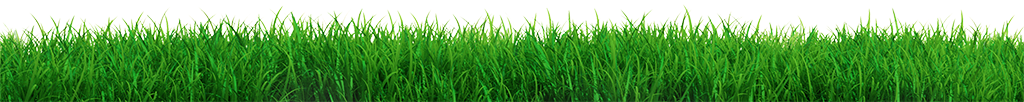
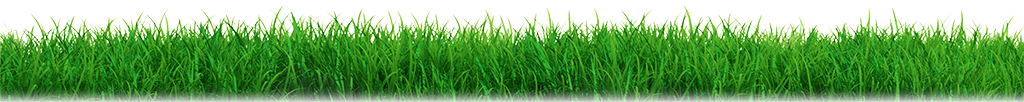
More sections added.

Changed region(s): [[0.0, 0.8824, 1.0, 1.0]]

diff --git a/lib/jquery-scrollto.js b/lib/jquery-scrollto.js
@@ -1,1 +1,7 @@
-!function(a,b,c){"undefined"!=typeof module&&module.exports?module.exports=c():"function"==typeof define&&define.amd?define(c):b[a]=c()}("jquery-scrollto",this,function(){var a,b,c;return a=b=window.jQuery||require("jquery"),b.propHooks.scrollTop=b.propHooks.scrollLeft={get:function(a,b){var c=null;return("HTML"===a.tagName||"BODY"===a.tagName)&&("scrollLeft"===b?c=window.scrollX:"scrollTop"===b&&(c=window.scrollY)),null==c&&(c=a[b]),c}},b.Tween.propHooks.scrollTop=b.Tween.propHooks.scrollLeft={get:function(a){return b.propHooks.scrollTop.get(a.elem,a.prop)},set:function(a){"HTML"===a.elem.tagName||"BODY"===a.elem.tagName?(a.options.bodyScrollLeft=a.options.bodyScrollLeft||window.scrollX,a.options.bodyScrollTop=a.options.bodyScrollTop||window.scrollY,"scrollLeft"===a.prop?a.options.bodyScrollLeft=Math.round(a.now):"scrollTop"===a.prop&&(a.options.bodyScrollTop=Math.round(a.now)),window.scrollTo(a.options.bodyScrollLeft,a.options.bodyScrollTop)):a.elem.nodeType&&a.elem.parentNode&&(a.elem[a.prop]=a.now)}},c={config:{duration:400,easing:"swing",callback:void 0,durationMode:"each",offsetTop:0,offsetLeft:0},configure:function(a){return b.extend(c.config,a||{}),this},scroll:function(a,d){var e,f,h,i,j,k,l,m,n,o,p,q,r,s,t,u,v,w;return e=a.pop(),f=e.$container,h=e.$target,k=f.prop("tagName"),i=b("<span/>").css({position:"absolute",top:"0px",left:"0px"}),j=f.css("position"),f.css({position:"relative"}),i.appendTo(f),p=i.offset().top,q=h.offset().top,r=q-p-parseInt(d.offsetTop,10),s=i.offset().left,t=h.offset().left,u=t-s-parseInt(d.offsetLeft,10),l=f.prop("scrollTop"),m=f.prop("scrollLeft"),i.remove(),f.css({position:j}),v={},w=function(){return 0===a.length?"function"==typeof d.callback&&d.callback():c.scroll(a,d),!0},d.onlyIfOutside&&(n=l+f.height(),o=m+f.width(),r>l&&n>r&&(r=l),u>m&&o>u&&(u=m)),r!==l&&(v.scrollTop=r),u!==m&&(v.scrollLeft=u),f.prop("scrollHeight")===f.width()&&delete v.scrollTop,f.prop("scrollWidth")===f.width()&&delete v.scrollLeft,null!=v.scrollTop||null!=v.scrollLeft?f.animate(v,{duration:d.duration,easing:d.easing,complete:w}):w(),!0},fn:function(a){var d,e,f,g;d=[];var h=b(this);if(0===h.length)return this;for(e=b.extend({},c.config,a),f=h.parent(),g=f.get(0);1===f.length&&g!==document.body&&g!==document;){var i,j;i="visible"!==f.css("overflow-y")&&g.scrollHeight!==g.clientHeight,j="visible"!==f.css("overflow-x")&&g.scrollWidth!==g.clientWidth,(i||j)&&(d.push({$container:f,$target:h}),h=f),f=f.parent(),g=f.get(0)}return d.push({$container:b("html"),$target:h}),"all"===e.durationMode&&(e.duration/=d.length),c.scroll(d,e),this}},b.ScrollTo=b.ScrollTo||c,b.fn.ScrollTo=b.fn.ScrollTo||c.fn,c});
+/**
+ * Copyright (c) 2007-2012 Ariel Flesler - aflesler(at)gmail(dot)com | http://flesler.blogspot.com
+ * Dual licensed under MIT and GPL.
+ * @author Ariel Flesler
+ * @version 1.4.3.1
+ */
+;(function($){var h=$.scrollTo=function(a,b,c){$(window).scrollTo(a,b,c)};h.defaults={axis:'xy',duration:parseFloat($.fn.jquery)>=1.3?0:1,limit:true};h.window=function(a){return $(window)._scrollable()};$.fn._scrollable=function(){return this.map(function(){var a=this,isWin=!a.nodeName||$.inArray(a.nodeName.toLowerCase(),['iframe','#document','html','body'])!=-1;if(!isWin)return a;var b=(a.contentWindow||a).document||a.ownerDocument||a;return/webkit/i.test(navigator.userAgent)||b.compatMode=='BackCompat'?b.body:b.documentElement})};$.fn.scrollTo=function(e,f,g){if(typeof f=='object'){g=f;f=0}if(typeof g=='function')g={onAfter:g};if(e=='max')e=9e9;g=$.extend({},h.defaults,g);f=f||g.duration;g.queue=g.queue&&g.axis.length>1;if(g.queue)f/=2;g.offset=both(g.offset);g.over=both(g.over);return this._scrollable().each(function(){if(e==null)return;var d=this,$elem=$(d),targ=e,toff,attr={},win=$elem.is('html,body');switch(typeof targ){case'number':case'string':if(/^([+-]=)?\d+(\.\d+)?(px|%)?$/.test(targ)){targ=both(targ);break}targ=$(targ,this);if(!targ.length)return;case'object':if(targ.is||targ.style)toff=(targ=$(targ)).offset()}$.each(g.axis.split(''),function(i,a){var b=a=='x'?'Left':'Top',pos=b.toLowerCase(),key='scroll'+b,old=d[key],max=h.max(d,a);if(toff){attr[key]=toff[pos]+(win?0:old-$elem.offset()[pos]);if(g.margin){attr[key]-=parseInt(targ.css('margin'+b))||0;attr[key]-=parseInt(targ.css('border'+b+'Width'))||0}attr[key]+=g.offset[pos]||0;if(g.over[pos])attr[key]+=targ[a=='x'?'width':'height']()*g.over[pos]}else{var c=targ[pos];attr[key]=c.slice&&c.slice(-1)=='%'?parseFloat(c)/100*max:c}if(g.limit&&/^\d+$/.test(attr[key]))attr[key]=attr[key]<=0?0:Math.min(attr[key],max);if(!i&&g.queue){if(old!=attr[key])animate(g.onAfterFirst);delete attr[key]}});animate(g.onAfter);function animate(a){$elem.animate(attr,f,g.easing,a&&function(){a.call(this,e,g)})}}).end()};h.max=function(a,b){var c=b=='x'?'Width':'Height',scroll='scroll'+c;if(!$(a).is('html,body'))return a[scroll]-$(a)[c.toLowerCase()]();var d='client'+c,html=a.ownerDocument.documentElement,body=a.ownerDocument.body;return Math.max(html[scroll],body[scroll])-Math.min(html[d],body[d])};function both(a){return typeof a=='object'?a:{top:a,left:a}}})(jQuery);

diff --git a/realSite.html b/realSite.html
@@ -28,17 +28,7 @@
 				<li><a href="#contact" id="contactLink">Contact</a></li>
 			</ul>
 		</nav>
-		<div class="clouds">
-			<div class="cloud small"></div>
-			<div class="cloud med" style="top: 565px;"></div>
-			<div class="cloud med" style="top: 525px; left: 314px;"></div>
-			<div class="cloud med" style="top: 525px; left: 650px;"></div>
-			<div class="cloud med" style="top: 525px; left: 800px;"></div>
-			<div class="cloud med" style="top: 530px; left: -149px;"></div>
-			<div class="cloud med" style="top: 525px; left: 105px;"></div>
-			<div class="cloud med" style="top: 513px; left: -106px;"></div>
-
-		</div>
+		<div class="clouds"></div>
 		</div>
 		<section>
 			<div id="values" class="valuesOuterWrapper">
@@ -76,9 +66,54 @@
 				<div class="grass">
 				</div>
 			</div>
-			<div id="services">
+			<div id="services" class="servicesOuterWrapper">
+				<div class="serviceContainer">
+					<div class="serviceListLeft">
+						<h2>The Basics</h2>
+						<ul>
+							<li>Waste removal / recycling</li>
+							<li>Dusting</li>
+							<li>Bathrom cleaning / stocking</li>
+							<li>Indoor widow cleaning</li>
+						</ul>
+					</div>
+					<div class="serviceListRight">
+						<h2>Floor Care</h2>
+						<ul>
+							<li>Floor stripping and waxing</li>
+							<li>Deep carpet cleaning</li>
+							<li>Burnishing</li>
+							<li>Vacuuming / sweeping / mopping </li>
+						</ul>
+					</div>
+				</div>
+				<div class="serviceContainer">
+					<div class="serviceListLeft">
+						<h2>Maintenance</h2>
+						<ul>
+							<li>Light bulb replacement / ballast replacement</li>
+							<li>Air filter replacement</li>
+						</ul>
+					</div>
+					<div class="serviceListRight">
+						<h2>Specialties</h2>
+						<ul>
+							<li>Need something special? Just ask!</li>
+						</ul>
+					</div>
+				</div>
 			</div>
-			<div id="contact">
+			<div id="contact" class="contactOuterWrapper">
+				<h2>Get a hold of us!</h2>
+				<div class="contactWrapper">
+					<form>
+						<input id="name" type="text" placeholder="Name" class="checkMe"/>
+			   			<input id="telephoneNumber" type="tel" placeholder="Telephone Number (Optional)" class=""/>
+			   			<input id="emailAddress" type="email" placeholder="Email Address" class="checkMe"/>
+			   			<textarea  id="message" type="text" placeholder="Your Message" class="checkMe"></textarea>
+			   			<button id ="submitContactForm">Submit</button>
+					</form>
+				</div>
 			</div>
 		</section>
 

diff --git a/js/blueOx.js b/js/blueOx.js
@@ -56,7 +56,7 @@ $(document).ready(function() {
 			 	y = $(document).scrollTop(),
 			 	headerPos = 0,
 			 	valuesPos = 600,
-			 	servicesPos = 3775,
+			 	servicesPos = 3400,
 			 	contactPos = 4775;
 
 			 var clearNavSelected = function() {
@@ -99,6 +99,32 @@ $(document).ready(function() {
 			}
 		}
 
+		blueOx.instateClouds = function() {
+			var screenWidth = $(window).width(),
+				$cloudContainer = $(".clouds"),
+				cloudWidth = 500,
+				numOfLayers = 3,
+				numOfClouds = Math.ceil((screenWidth / cloudWidth) * 1.5),
+				thisCloud,
+				cloudTop,
+				offset = -50,
+				negOrPos;
+
+				for (var i = 0; i <= numOfLayers; i += 1) {
+					for (var j = 0; j <= numOfClouds; j += 1) {
+						thisCloud = $("<div class='cloud med' style='top: 565px; z-index:" + (i * 10) + "; left:" + ((500 * j) + offset) + "px;'></div>");
+						thisCloud.appendTo($cloudContainer);
+
+						//get ranom offset between -300 and 300 for next cloud
+						negOrPos = Math.round(Math.random()) * 2 - 1;
+						offset = Math.floor((Math.random()*200)+1) * negOrPos;
+					}
+
+					//reset for next loop
+					j = 0; 
+				}
+		}
+
 		blueOx.bindNavScrollEvents = function() {
 			var that = this;
 			if (window.addEventListener) {
@@ -117,6 +143,24 @@ $(document).ready(function() {
 			    typewatch(function(){
 					that.checkForNavChange($nav);
 				}, 10 ); // wait 1/100 of a second to fire again (this actually saves a lot)
+			});
+
+			//scrollTo events
+			$homeLink.click(function(e) {
+				e.preventDefault();
+				$.scrollTo( '#home', 800);
+			});
+			$valuesLink.click(function(e) {
+				e.preventDefault();
+				$.scrollTo( '#values', 800);
+			});
+			$servicesLink.click(function(e) {
+				e.preventDefault();
+				$.scrollTo( '#services', 800);
+			});
+			$contactLink.click(function(e) {
+				e.preventDefault();
+				$.scrollTo( '#contact', 800);
 			});
 		}
 

diff --git a/css/styles.css b/css/styles.css
@@ -179,6 +179,97 @@ nav li a.selected {
 	text-shadow: -2px 2px 2px rgba(0, 0, 0, 0.16);
 }
 
+.servicesOuterWrapper {
+	height: 550px;
+	background: url(../img/ground-small3.png) 0 0;
+}
+
+.serviceContainer {
+	color: #fff;
+	font-family: gsBold;
+}
+
+.serviceContainer h2 {
+	margin: 0;
+	font-size: 42px;
+	color: #FF5600;
+	text-align: center;
+}
+
+.serviceContainer ul {
+	margin: 0;
+	padding: 0;
+}
+
+.serviceContainer li {
+	list-style: none;
+	font-size: 26px;
+	font-size: 26px;
+	font-family: "Avant Garde", Avantgarde, "Century Gothic", CenturyGothic, "AppleGothic", sans-serif;
+}
+
+.serviceListLeft {
+	width: 45%;
+	float: left;
+	min-height: 190px;
+	margin-bottom: 35px;
+	border-right: 1px solid #fff;
+	padding-right: 50px;
+	border-top: 1px solid #fff;
+}
+
+.serviceListRight {
+	width: 45%;
+	float: right;
+	margin-bottom: 35px;
+	min-height: 190px;
+	border-top: 1px solid #fff;
+	border-left: 1px solid #fff;
+	padding-left: 50px;
+}
+
+.serviceListRight h2 {
+	text-align: left;
+}
+
+.serviceListRight ul {
+
+}
+
+.serviceListRight li {
+	text-align: left;
+}
+
+.serviceListLeft h2 {
+	text-align: right;
+}
+
+.serviceListLeft ul {
+
+}
+
+.serviceListLeft li {
+	text-align: right;
+}
+
+.contactOuterWrapper {
+	height: 500px;
+	background: url(../img/ground-small3.png) 0 0;
+	padding-top: 150px;
+	font-family: gsBold;
+}
+
+.contactOuterWrapper h2 {
+	margin: 0;
+	font-size: 60px;
+	text-align: right;
+	color: #FF5600;
+	width: 45%;
+	border-right: 1px solid #fff;
+	border-top: 1px solid #fff;
+	padding-right: 50px;
+}
+
 .clouds {
 	height: 230px;
 }
@@ -207,11 +298,11 @@ nav li a.selected {
 }
 
 .grass {
-	background: url("../img/grass-med.png");
+	background: url("../img/grass-med-feathered.png");
 	height: 102px;
 	width: 100%;
 	float: left;
-	top: -102px;
+	top: -88px;
 	position: relative;
 }
 
